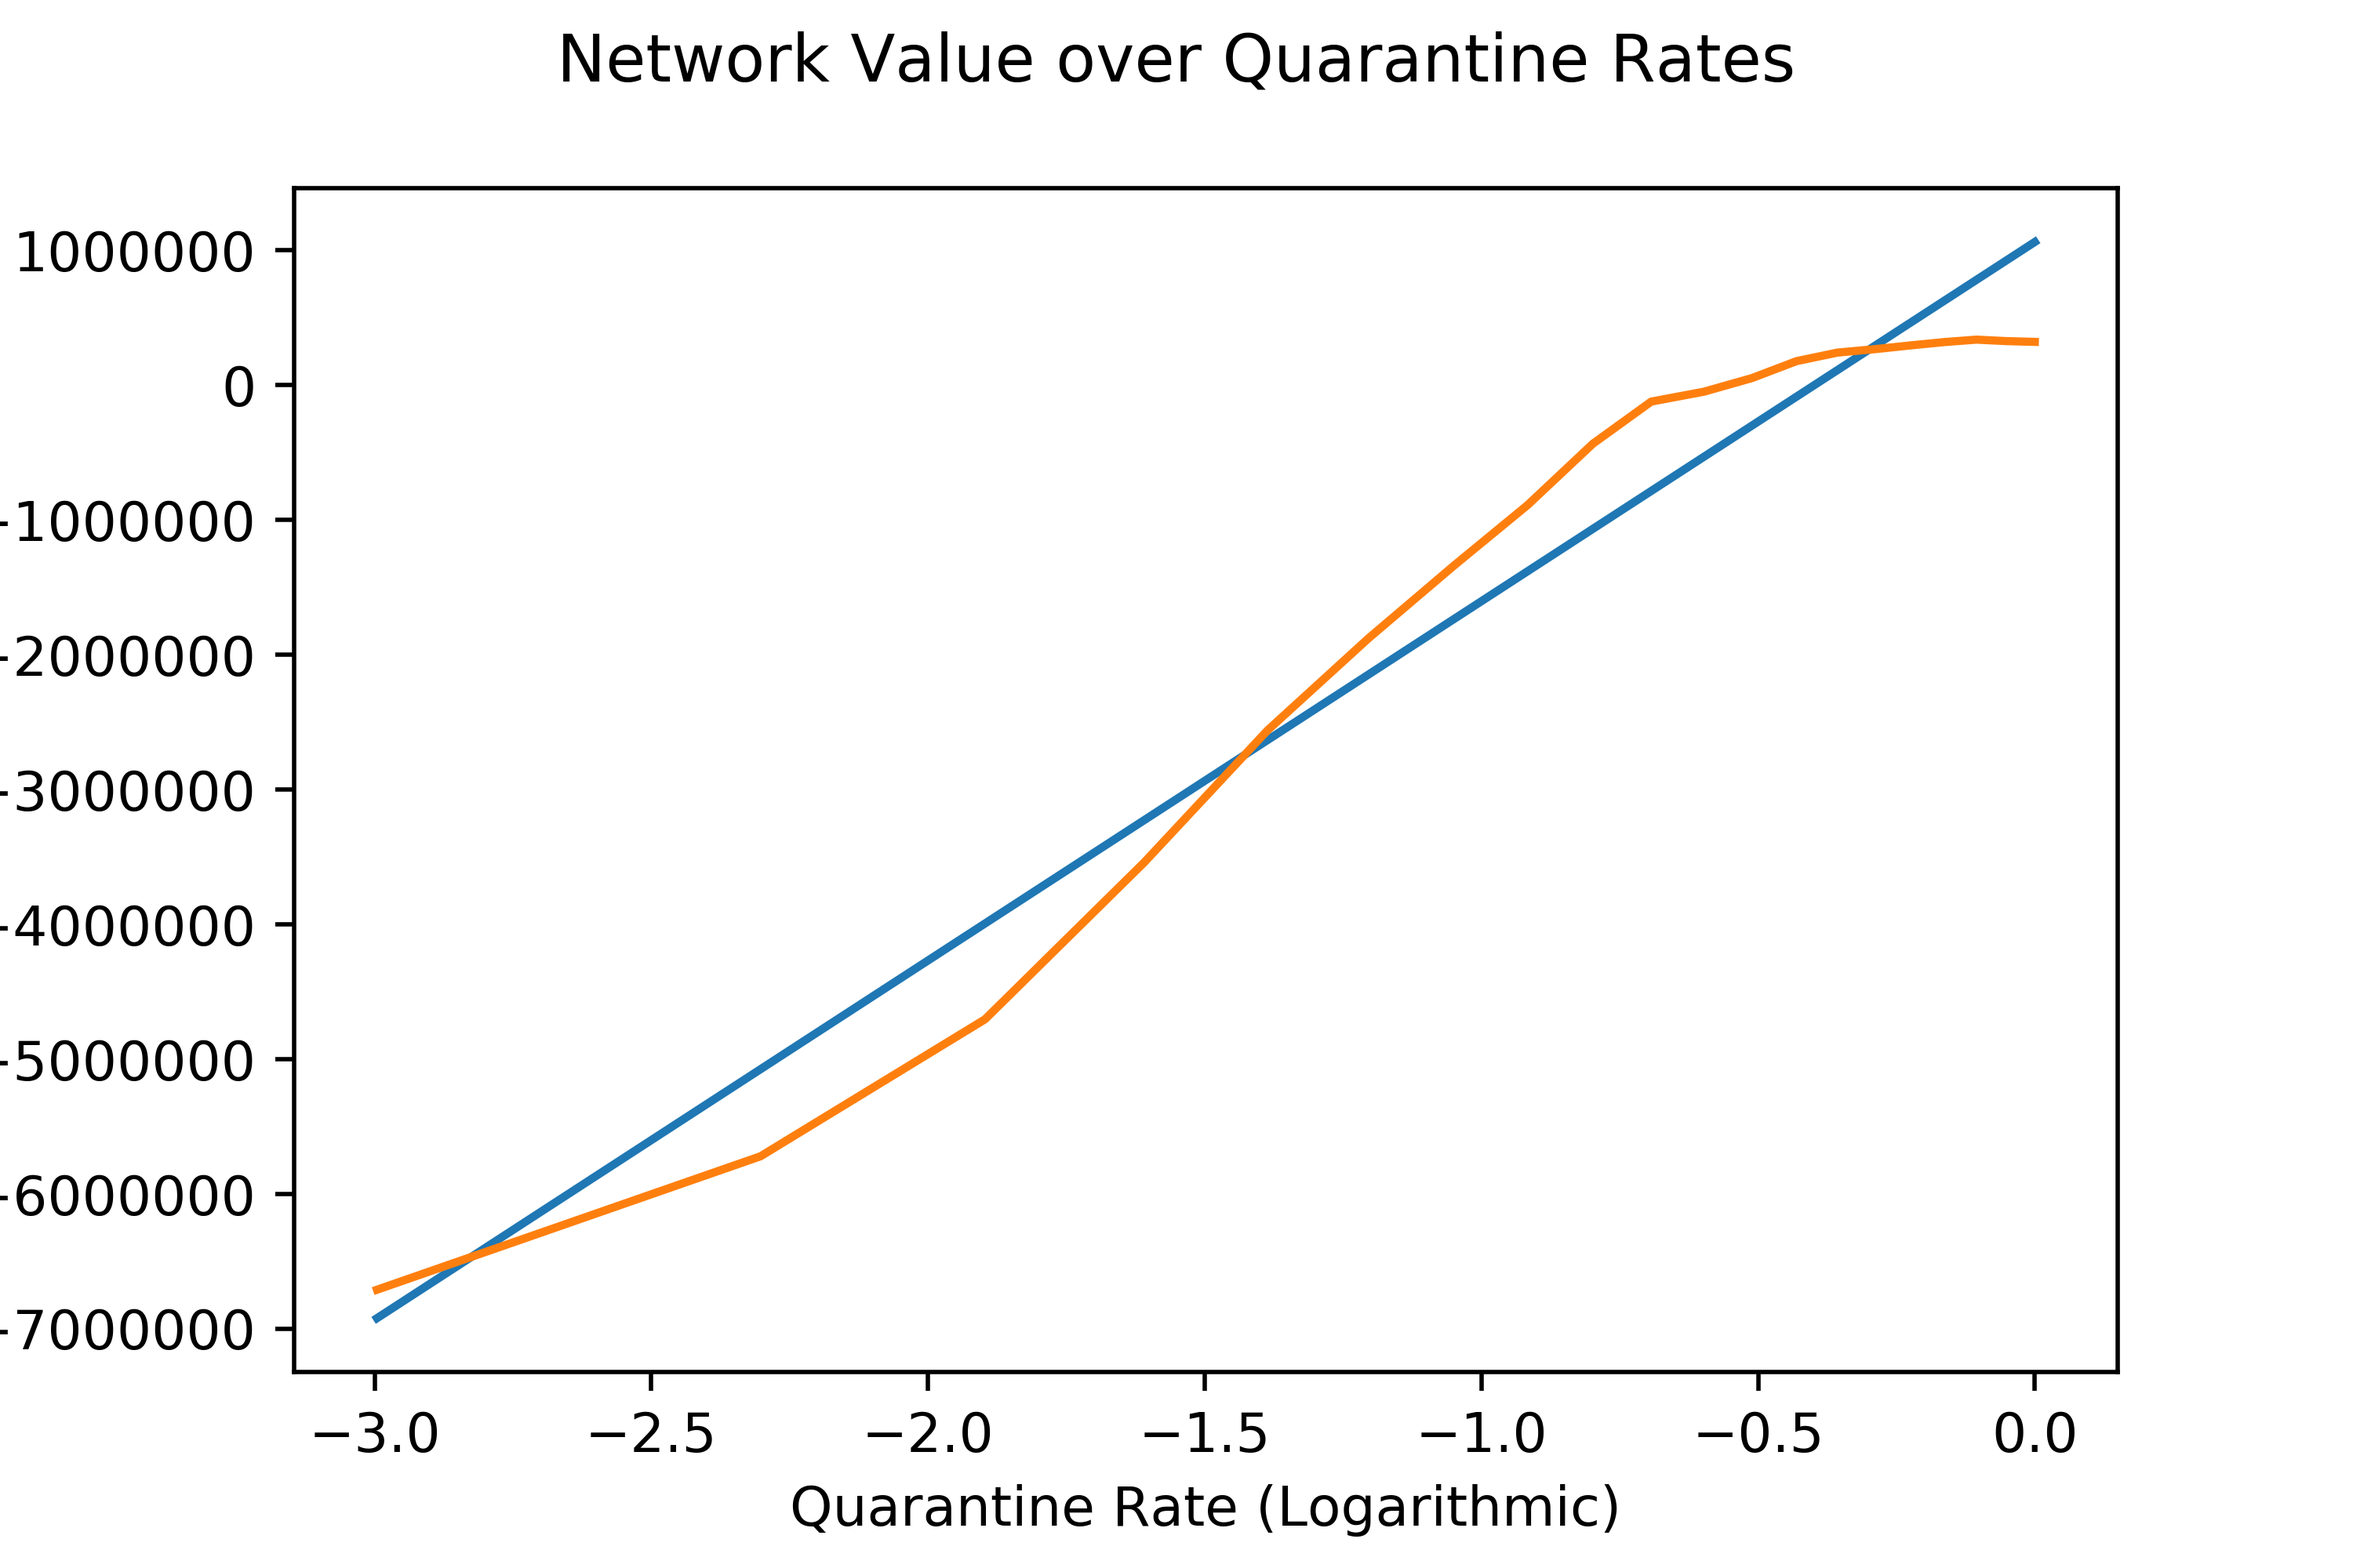
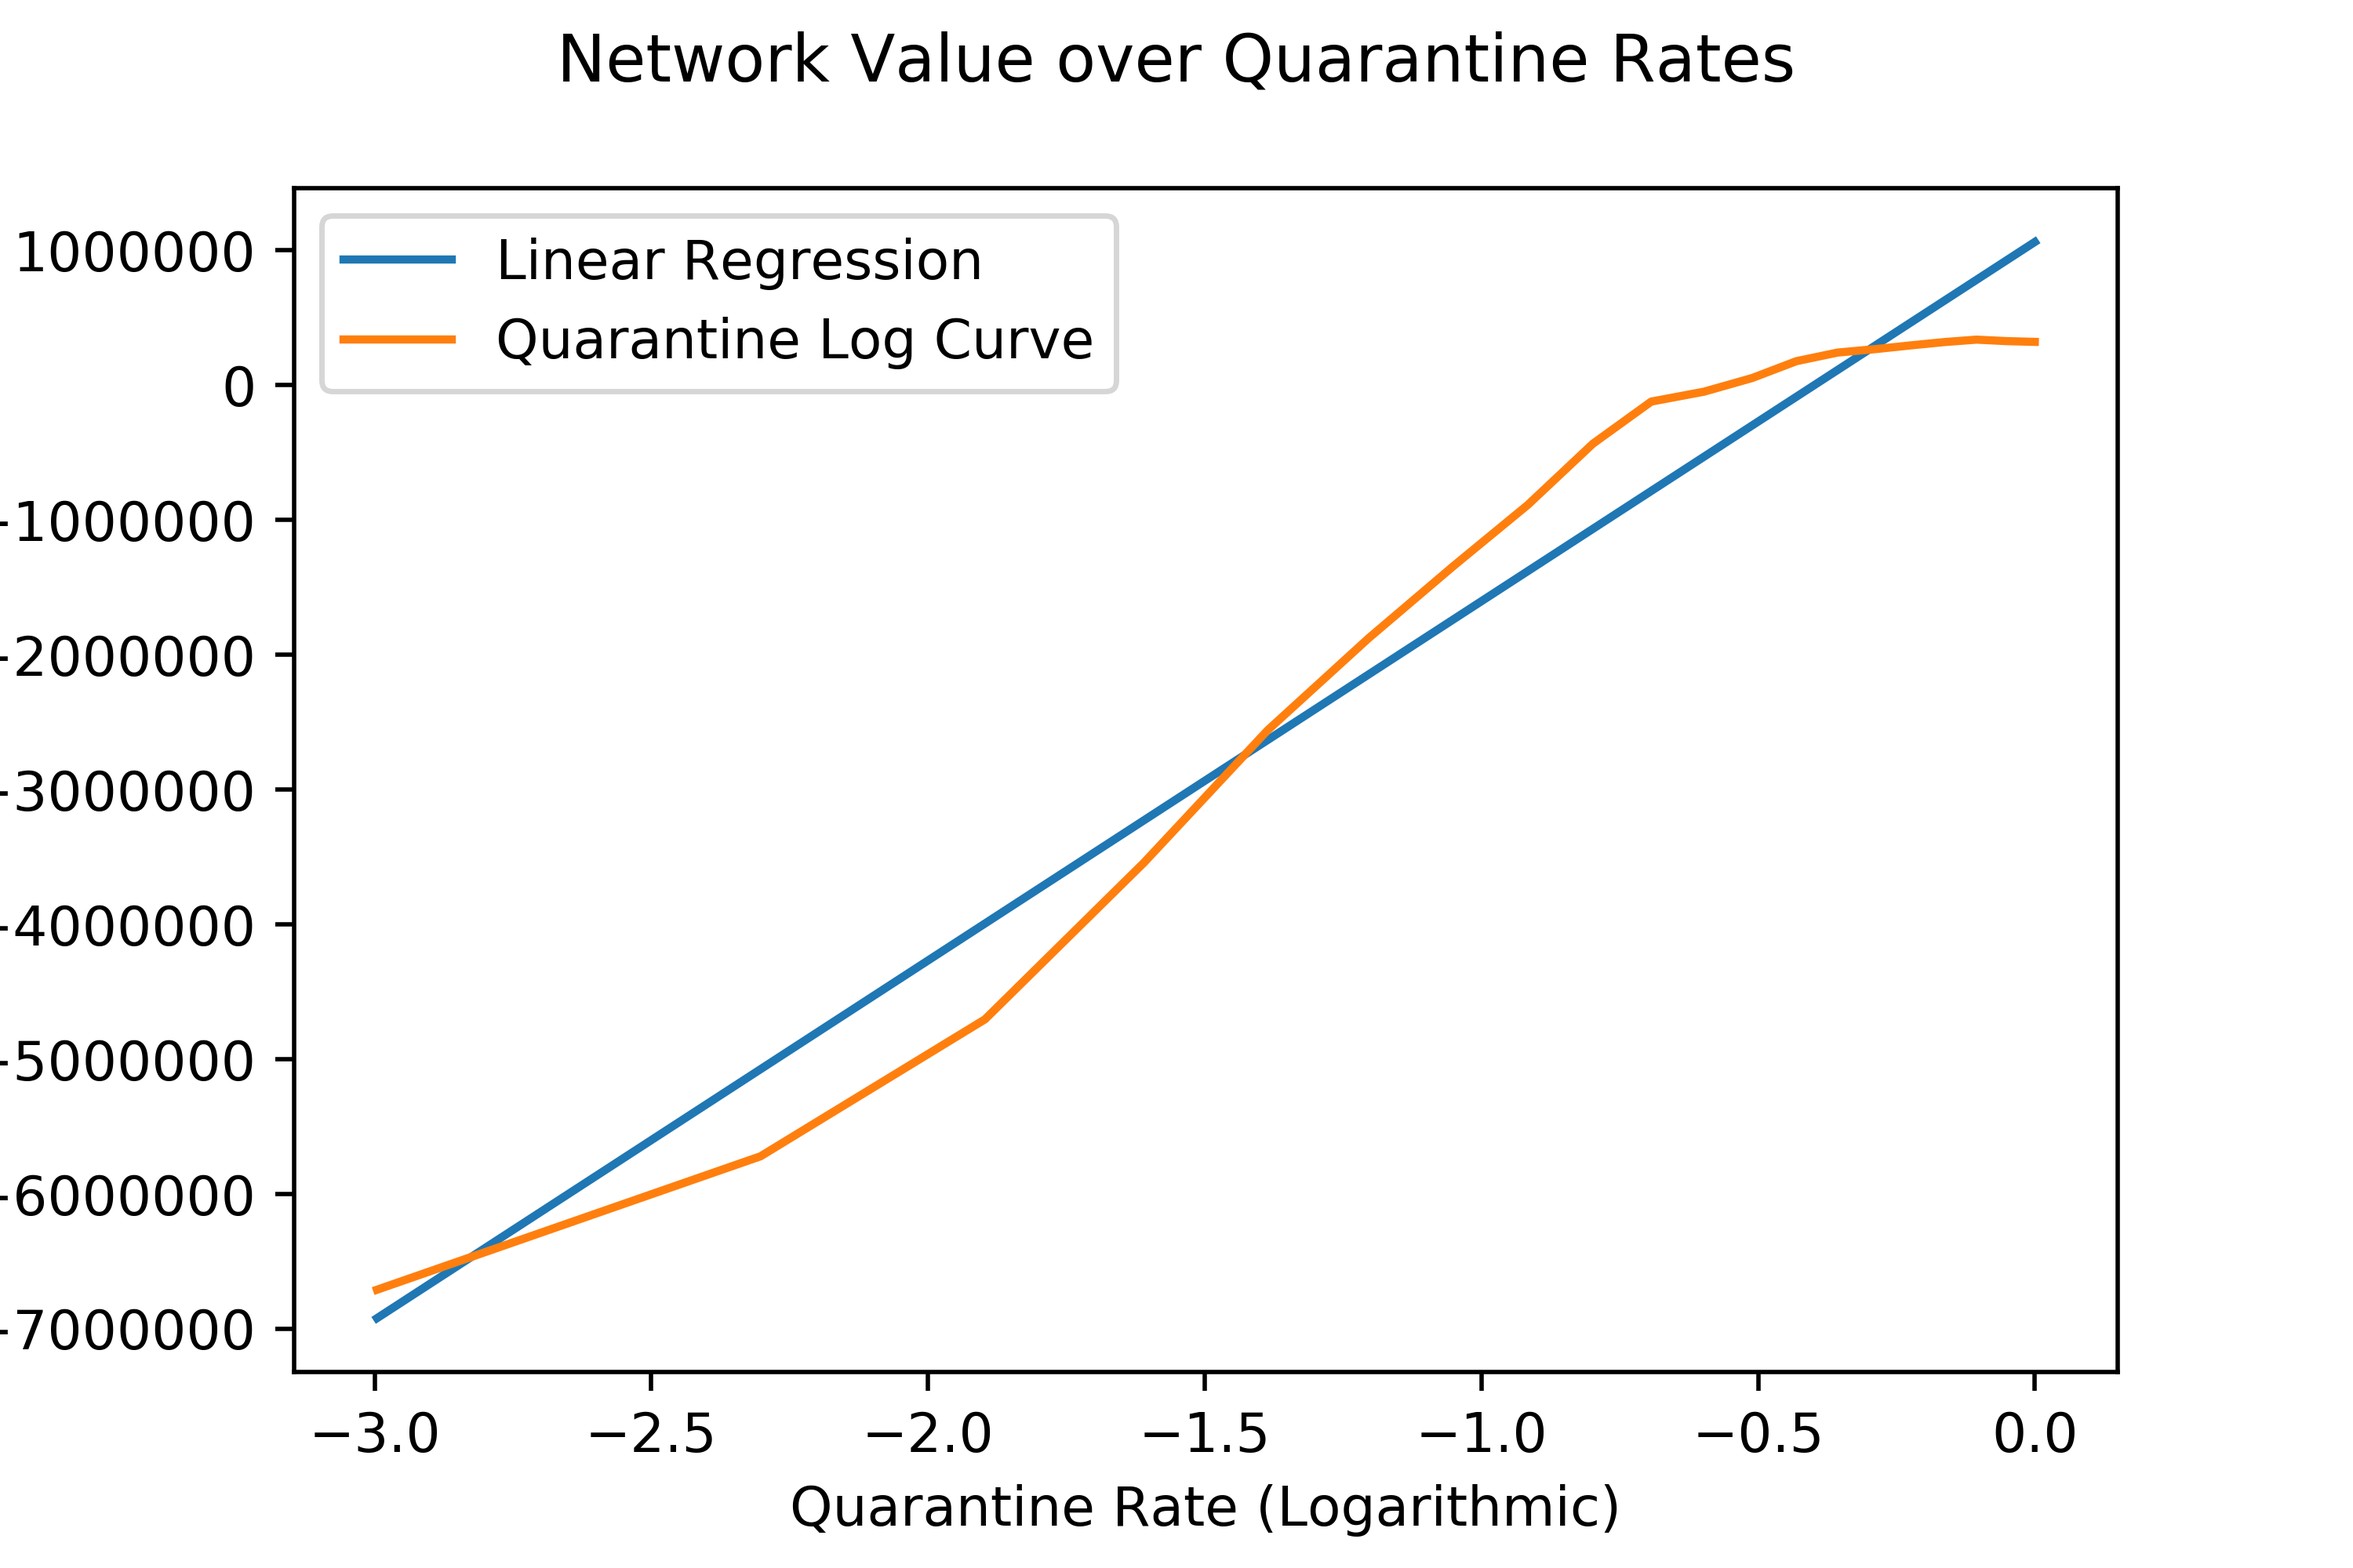
plots

Changed region(s): [[0.124, 0.124, 0.465, 0.279]]

diff --git a/simulation_draft_3.py b/simulation_draft_3.py
@@ -287,7 +287,7 @@ start_random = rand.randint(0,G.number_of_nodes()-1)
 starting_node = start_random
 r_0 = 2.45
 beta = r_0 * 1/24.7
-quarantine = 0.9
+quarantine = 0.6
 days = 28
 s_rate = -1
 r_rate = -1
@@ -307,29 +307,47 @@ for i in range(1,21):
 
 
 print(sorted(totals.items(), key = operator.itemgetter(1)))
+
 log_fit = np.polyfit(np.log(list(totals.keys())),list(totals.values()),1)
 logfig = plt.figure()
 logfig.suptitle("Network Value over Quarantine Rates")
 ax1 = logfig.add_subplot(111)
-ax1.plot(np.log(list(totals.keys())), log_fit[0]*np.log(list(totals.keys())) + log_fit[1])
+ax1.plot(np.log(list(totals.keys())), log_fit[0]*np.log(list(totals.keys())) + log_fit[1],label = "Linear Regression")
 ax2 = logfig.add_subplot(111)
-ax2.plot(np.log(list(totals.keys())),list(totals.values()))
+ax2.plot(np.log(list(totals.keys())),list(totals.values()), label = "Quarantine Log Curve")
 ax2.set_xlabel("Quarantine Rate (Logarithmic)")
 ax2.set_ylabel("Network Cost-Benefit Value")
-
+ax2.legend(loc="upper left")
 plt.savefig("Quarantine Log Curve", dpi = 500)  
+
+
+qrtfig = plt.figure()
+qrtfig.suptitle("Network Value over Quarantine Rates")
+ax2 = qrtfig.add_subplot(111)
+ax2.plot(list(totals.keys()),list(totals.values()))
+ax2.set_xlabel("Quarantine Rate")
+ax2.set_ylabel("Network Cost-Benefit Value")
+plt.savefig("Quarantine Curve", dpi = 500)  
+
+#
 plt.show()
 qrt_09 = multi_BFS_t(G,starting_node, beta,0.9,days,s_rate,x_rate, r_rate, 50, "Quarantine 0.9")
 for i in range(0,len(qrt_09)):
     print(qrt_09[i][27])
 print(qrt_09)
 
-plt.savefig("Quarantine 09", dpi = 500)  
+#plt.savefig("Quarantine 09", dpi = 500)  
 plt.show()
 for i in totals.items():
     print(str(i[1])+"&")
     
+qrt_05 = multi_BFS_t(G,starting_node, beta,0.05,days,s_rate,x_rate, r_rate, 50, "Quarantine 0.05")
+plt.savefig("Quarantine 005", dpi = 500) 
 
+
+qrt_06 = multi_BFS_t(G,starting_node, beta,0.5,days,s_rate,x_rate, r_rate, 50, "Quarantine 0.9")
+plt.show()
+plt.savefig("Quarantine 06", dpi = 500) 
 # Running multiple realizations
 #multi_res = multi_BFS_t(G,starting_node,beta,quarantine,days,s_rate,x_rate, r_rate, 15)
 #plot_numbers_per_day(multi_res, beta, quarantine, days)
